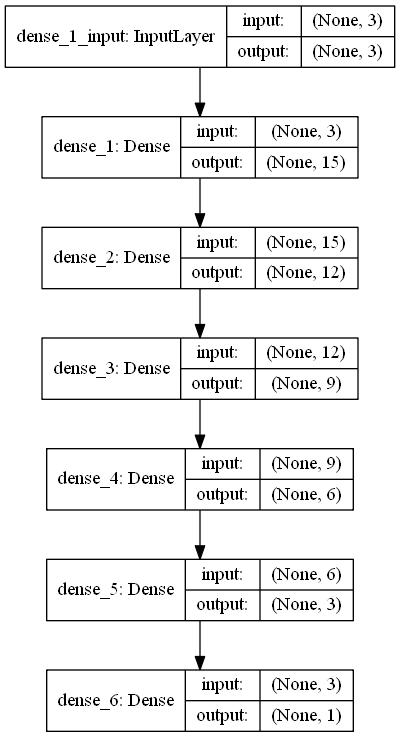
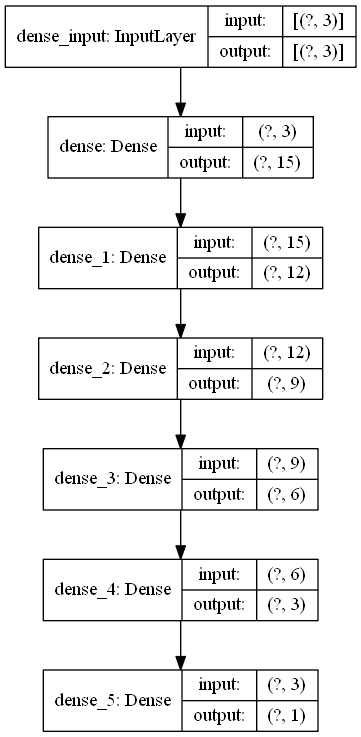
Tuner now functioning in limited capacity

diff --git a/Final_Project/FinalProject_RyanMcCullough_NathanielRoberts.py b/Final_Project/FinalProject_RyanMcCullough_NathanielRoberts.py
@@ -9,8 +9,9 @@ import os
 import numpy as np
 import pandas as pd
 import tensorflow as tf
-from tensorflow import keras
+# from tensorflow import keras
 from tensorflow.keras.models import Sequential
+from tensorflow.keras.layers import Dense
 import kerastuner as kt
 from sklearn.model_selection import KFold, train_test_split
 from matplotlib import pyplot as plt
@@ -18,13 +19,13 @@ from matplotlib import pyplot as plt
 
 class MyperHodel(kt.HyperModel):
 
-    def __init__(self):
-        pass
+    # def __init__(self, name=None, tunable=True):
+    #     pass
 
     def build(self, hyparams):
-        model = tf.keras.Sequential()
+        model = Sequential()
         for k in range(hyparams.Int('layers', 2, 10)):
-            model.add(tf.keras.layers.Dense(
+            model.add(Dense(
                 units=hyparams.Int('units_' + str(k), min_value=10, max_value=100, step=10),
                 activation=hyparams.Choice('activation_' + str(k), ['relu', 'tanh', 'linear'])))
         model.compile(
@@ -94,7 +95,7 @@ def trainModel(data):
     model.add(Dense(1, activation='relu'))
     model.compile(optimizer='adagrad', loss='mean_squared_logarithmic_error')
     
-    keras.utils.plot_model(model, to_file="./ModelStruct.png", show_shapes=True)
+    tf.keras.utils.plot_model(model, to_file="./ModelStruct.png", show_shapes=True)
 
     model.fit(xTrain, yTrain, epochs=10, validation_data=(xVal, yVal))
     
@@ -115,19 +116,22 @@ def trainModel(data):
     return (model, xTest, yTest, yPred)
 
 
-# def hyper_build(hyparams):
-#     hmodel = keras.Sequential(name='TunedModel')
-#     for k in range(hyparams.Int('layers', 2, 10)):
-#         hmodel.add(keras.layers.Dense(
-#             units=hyparams.Int('units_' + str(k), min_value=3, max_value=21, step=3),
-#             activation=hyparams.Choice('activation_' + str(k), ['relu', 'tanh', 'linear'])
-#         ))
-#     hmodel.compile(
-#         optimizer='adadelta',
-#         loss='mean_squared_error',
-#         metrics='mean_squared_error'
-#     )
-#     return hmodel
+def hyper_build(hyparams):
+    hmodel = Sequential(name='TunedModel')
+    # for k in range(hyparams.Int('layers', 2, 10)):
+    hmodel.add(tf.keras.layers.Input(shape=(3,)))
+    for k in range(1, 6):
+        hmodel.add(Dense(
+            name=f"Dense Layer {k}",
+            units=hyparams.Int('units_' + str(k), min_value=3, max_value=21, step=3),
+            activation=hyparams.Choice('activation_' + str(k), ['relu', 'tanh', 'linear'])
+        ))
+    hmodel.compile(
+        optimizer='adadelta',
+        loss='mean_squared_error',
+        metrics=['mean_squared_error']
+    )
+    return hmodel
 
 
 def hyper_tune(hyparams, xTrain, yTrain, xVal, yVal):
@@ -164,17 +168,47 @@ def fullPlot(X_data, y_true, y_pred):
     plt.show()
 
 
+def build_one_layer(hyparams):
+    model = Sequential()
+    model.add(tf.keras.layers.Input(shape=(3,)))
+    model.add(Dense(
+        units=hyparams.Int('units', min_value=3, max_value=36, step=3),
+        activation='relu'))
+    model.add(Dense(10, activation='softmax'))
+    model.compile(
+        optimizer=tf.keras.optimizers.Adagrad(
+            hyparams.Choice('learning_rate', values=[1e-2, 1e-3, 1e-4])),
+        loss='logcosh',
+        metrics=['mean_squared_error'])
+    return model
+
+
 if __name__ == '__main__':
     data = cropData(loadData())
     xTest, xTrain, xVal, yTrain, yTest, yVal = splitData(data)
-    (trainedModel, xTest, yTest, yPred) = trainModel(data)
-    fullPlot(xTest, yTest, yPred)
+    # (trainedModel, xTest, yTest, yPred) = trainModel(data)
+    # fullPlot(xTest, yTest, yPred)
     hyparams = kt.HyperParameters()
-    hmodel = hyper_tune(hyparams, xTrain, yTrain, xVal, yVal)
-    hmodel.fit(xTrain, yTrain)
-    hyperPreds = hmodel.predict(xTest)
-    print("The predictions coming back have shape", hyperPreds.shape)
-    heval = hmodel.evaluate(xTest, yTest, batch_size=64)
-    print("Tuned mean squared error:", heval)
-    print(hmodel.summary())
-    fullPlot(xTest, yTest, hyperPreds)
+    rstuner = kt.tuners.RandomSearch(
+        hypermodel=build_one_layer,
+        objective='val_mean_squared_error',
+        max_trials=5,
+        executions_per_trial=3,
+        directory='tuner_data',
+        project_name='tunedmodel'
+    )
+    rstuner.search_space_summary()
+    rstuner.search(xTrain, yTrain, epochs=20, validation_data=(xVal, yVal))
+    top2 = rstuner.get_best_models(num_models=2)
+    prams = rstuner.get_best_hyperparameters()[0]
+    rstuner.results_summary()
+    print("Best 'units':", prams.get('units'),
+          "   Best 'learning_rate':", prams.get('learning_rate'))
+    # hmodel = hyper_tune(hyparams, xTrain, yTrain, xVal, yVal)
+    # hmodel.fit(xTrain, yTrain)
+    # hyperPreds = hmodel.predict(xTest)
+    # print("The predictions coming back have shape", hyperPreds.shape)
+    # heval = hmodel.evaluate(xTest, yTest, batch_size=64)
+    # print("Tuned mean squared error:", heval)
+    # print(hmodel.summary())
+    # fullPlot(xTest, yTest, hyperPreds)
